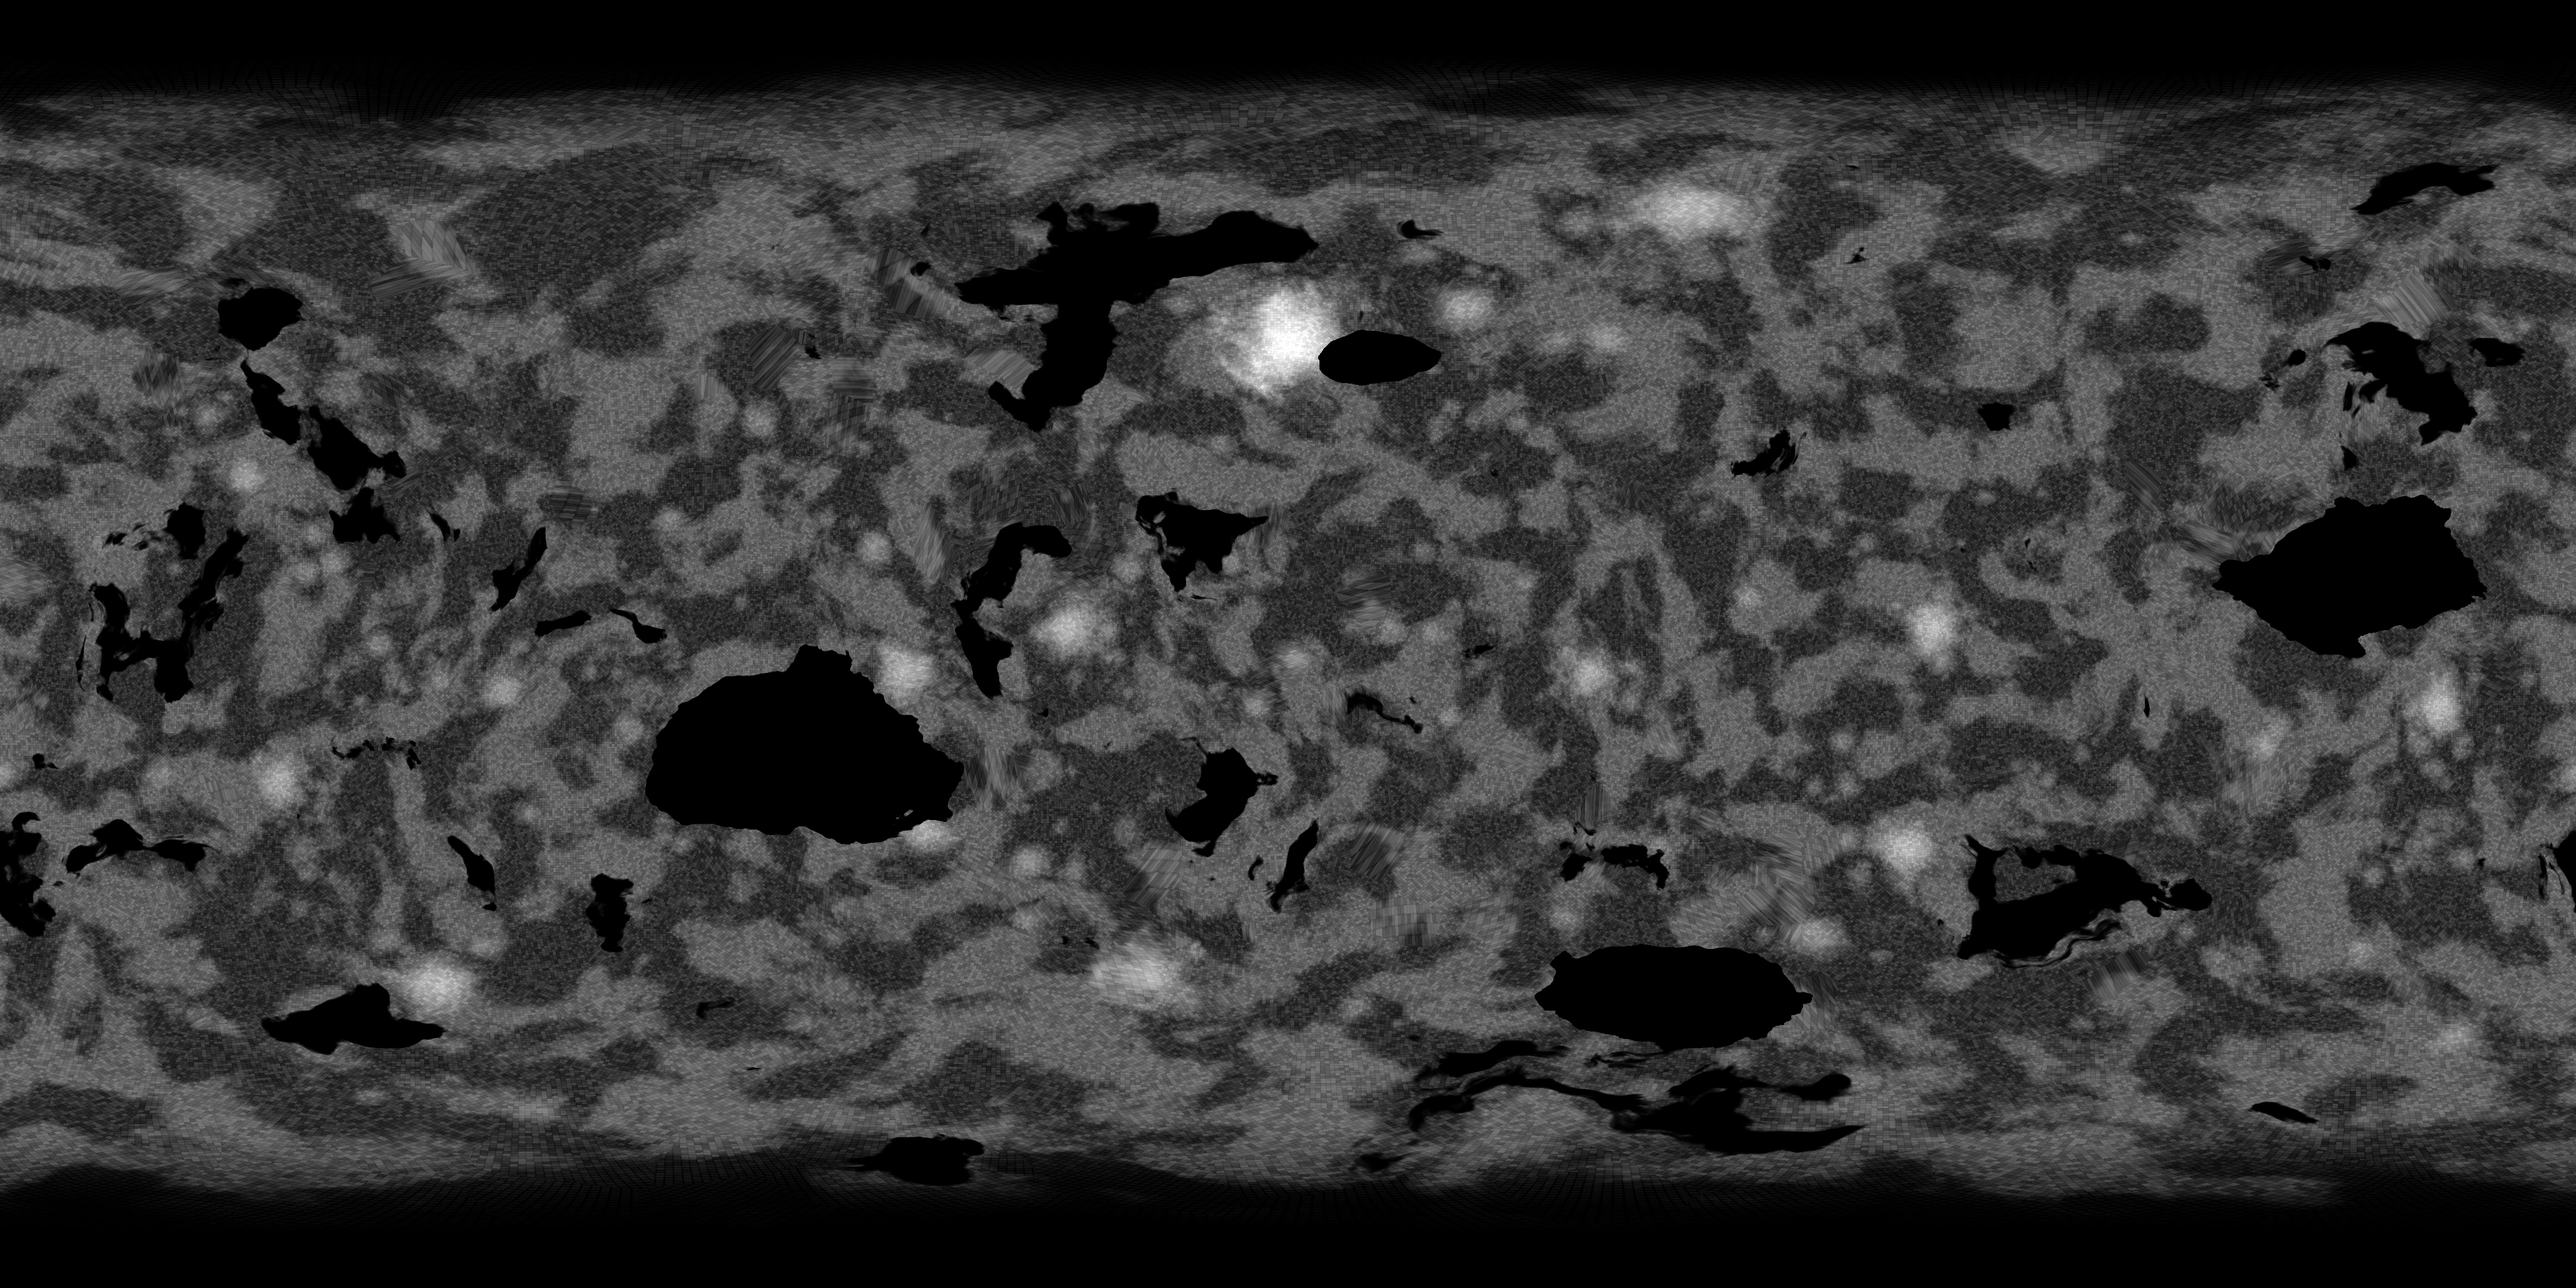
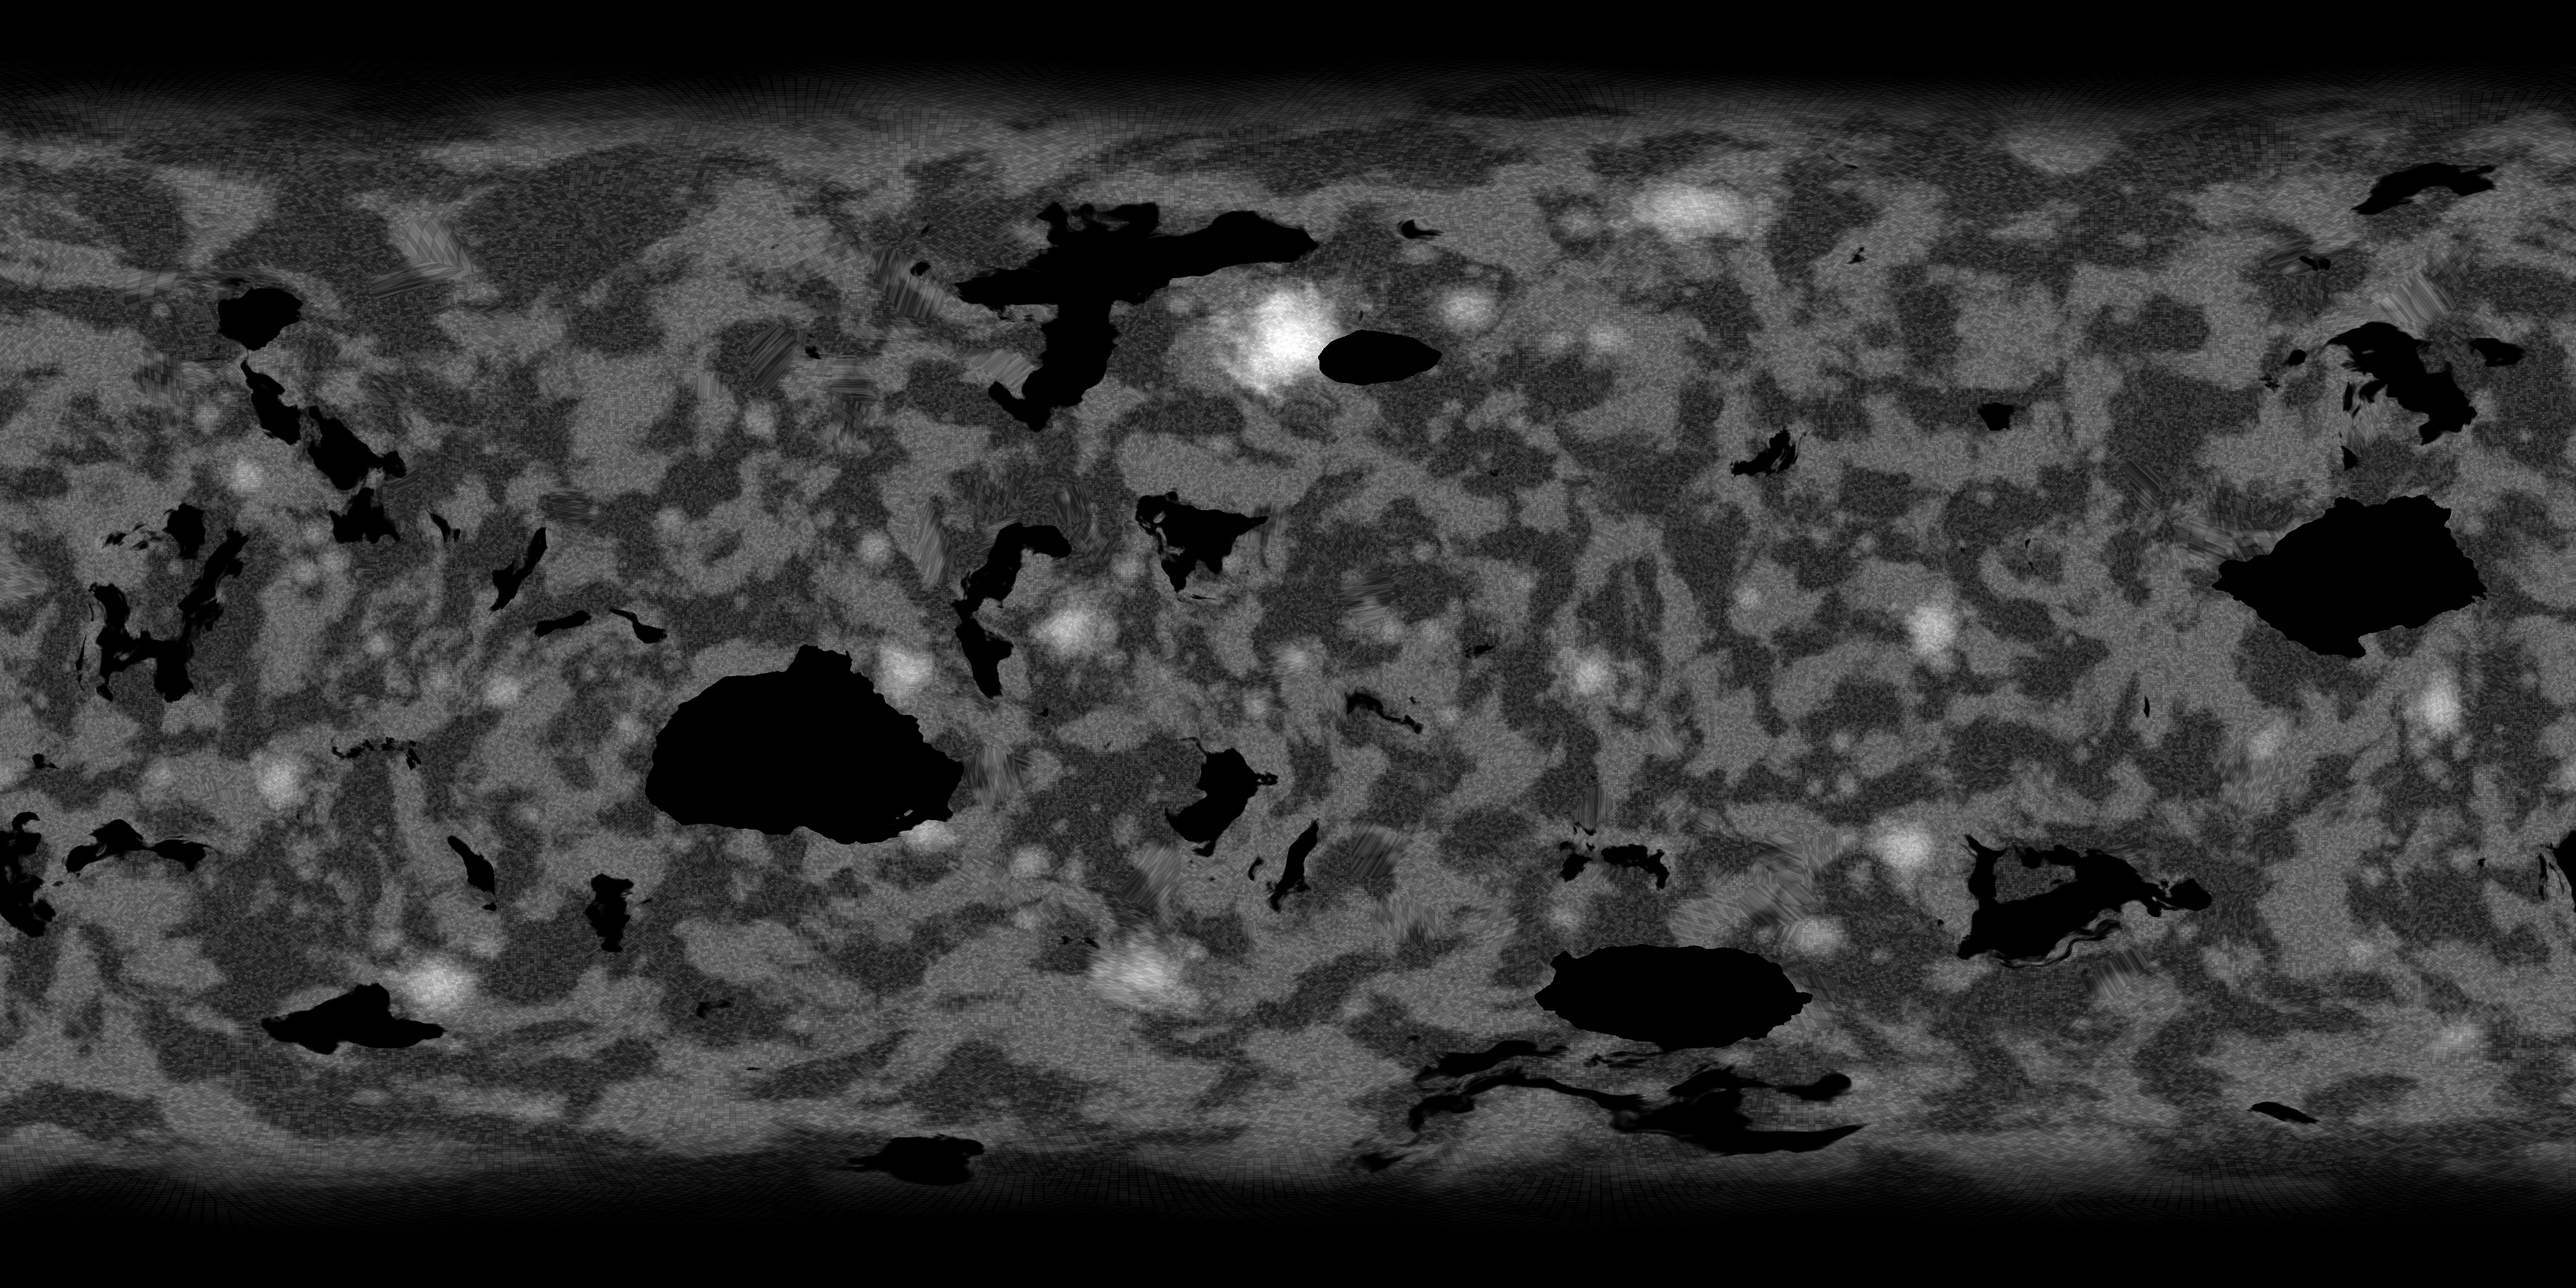
Terran: read as a city planet, not farmland
Rooftop speckle instead of flat district tints, greenbelts instead of park squares,
silvery glassy cores, ring roads and radial highways around big hubs, trunk lines between
the biggest, and night lights across nearly all land as glitter.

Claude-Session: https://claude.ai/code/session_01K8R5kqduobr76DoBg9xGr3

Changed region(s): [[0.0, 0.0625, 1.0, 0.9375], [0.2188, 0.0625, 0.25, 0.0938]]

diff --git a/web/src/lib/system/bodies.ts b/web/src/lib/system/bodies.ts
@@ -115,7 +115,7 @@ export const FELUCIA: BodyLook = {
 export const TERRAN: BodyLook = {
 	name: 'Terran',
 	radius: 1.4,
-	glow: 4,
+	glow: 3,
 	clouds: { color: [0.9, 0.92, 0.94], opacity: 0.85, drift: 0.003, normal: true },
 	atmosphere: { color: [0.5, 0.68, 0.95], strength: 0.85 }
 };

diff --git a/tools/planets/terran.py b/tools/planets/terran.py
@@ -153,9 +153,28 @@ def generate(width: int, out: Path) -> None:
     density = np.zeros_like(h)
     # Hubs sprawl unevenly along their coasts and corridors, not in circles.
     ragged = fbm(n[4], p * 14 + warp * 2, 4)
-    for la, lo, r, b in hubs:
-        d = angular_distance(g, la, lo) * (1 + 0.9 * ragged)
+    # Big hubs get wheels: ring roads (beltways) and radial highways, like DC's or Moscow's,
+    # at city-planet scale and a little out of round.
+    wheels = np.zeros_like(h)
+    for i, (la, lo, r, b) in enumerate(hubs):
+        d0 = angular_distance(g, la, lo)
+        d = d0 * (1 + 0.9 * ragged)
         density = np.maximum(density, b * np.exp(-((d / r) ** 2)))
+        if i == 0 or r < 1.8:
+            continue
+        c = unit(la, lo)
+        e = np.cross([0, 0, 1.0], c)
+        e /= np.linalg.norm(e)
+        nn = np.cross(c, e)
+        near = d0 < r * 1.6
+        dw = d0[near] * (1 + 0.06 * ragged[near])
+        ang = np.arctan2(p[near] @ nn, p[near] @ e)
+        w = 0.16
+        ring = np.maximum(smoothstep(w, 0, np.abs(dw - 0.4 * r)), smoothstep(w, 0, np.abs(dw - 0.85 * r)) * (r > 2.6))
+        k = int(rng.integers(5, 9))
+        phase = rng.uniform(0, np.pi)
+        spoke = smoothstep(w, 0, dw * np.abs(np.sin((ang - phase) * k / 2))) * smoothstep(0.1 * r, 0.25 * r, dw) * smoothstep(1.5 * r, 1.0 * r, dw)
+        wheels[near] = np.maximum(wheels[near], b * np.maximum(ring, spoke))
     # The urban sprawl between hubs is everywhere, thinning toward the poles.
     # It is patchy: dense suburbs, industry, and darker tracts between.
     base = 0.2 + 0.35 * smoothstep(0.2, 0.85, rank(fbm(n[5], p * 7 + warp * 1.5, 5)))
@@ -198,7 +217,6 @@ def generate(width: int, out: Path) -> None:
         return ((x ^ (x >> 16)) & 0xFFFF).astype(np.float32) / 0xFFFF
 
     block = hashf(sx, sy, (cid * 1000).astype(np.int64))
-    super_block = hashf(bx, by, (cid * 1000).astype(np.int64) + 7)
 
     # Champion City: rings of boulevards and radial avenues, the Senate and the Arena.
     cd = angular_distance(g, *CHAMPION)
@@ -224,12 +242,27 @@ def generate(width: int, out: Path) -> None:
         for j in np.argsort(-dots)[1:3]:
             if i < j or i not in np.argsort(-(xyz @ xyz[j]))[1:3]:
                 segs.append(((hubs[i][0], hubs[i][1]), (hubs[j][0], hubs[j][1]), 1.0))
-    arteries = near_arcs(g, segs, 0.22)
+    arteries = 0.5 * near_arcs(g, segs, 0.22)
+    # Trunk lines: the biggest hubs joined to each other across continents, brighter and wider.
+    top = sorted(range(len(hubs)), key=lambda i: -hubs[i][2])[:32]
+    txyz = xyz[top]
+    trunks = []
+    for a_ in range(len(top)):
+        for b_ in np.argsort(-(txyz @ txyz[a_]))[1:3]:
+            if a_ < b_:
+                i, j = top[a_], top[b_]
+                trunks.append(((hubs[i][0], hubs[i][1]), (hubs[j][0], hubs[j][1]), 1.0))
+    arteries = np.maximum(arteries, near_arcs(g, trunks, 0.32))
     print(f"arteries {time.time() - t0:.1f}s: {len(segs)} lines, max {float(arteries.max()):.2f}, cover {float((arteries > 0.1).mean()):.4f}")
 
-    # Parks: the initiative's squares at a regular spacing in each district's grid, a ring of
-    # parks around the capital, and the lakefront strip.
-    parks = (hashf(bx, by, (cid * 1000).astype(np.int64) + 3) > 0.975).astype(np.float32)
+    # Parks: greenbelts kept along old river valleys and irregular preserved parkland, shaped
+    # like nature rather than plots; rectangular planned parks only in the dense cores; a ring
+    # of parks around the capital, and the lakefront strip.
+    belts = smoothstep(0.035, 0.012, np.abs(fbm(n[6], p * 5 + warp * 1.2, 4)))
+    belts = belts * smoothstep(0.35, 0.6, rank(fbm(n[7], p * 3 + 4.4, 3)))
+    wild = smoothstep(0.93, 0.97, rank(fbm(n[2], p * 9 + warp * 2, 5)))
+    planned = (hashf(bx, by, (cid * 1000).astype(np.int64) + 3) > 0.97) * smoothstep(0.35, 0.6, hubd)
+    parks = np.maximum(np.maximum(belts, wild), planned).astype(np.float32)
     ring_d = np.abs(cd - 9)
     parks = np.maximum(parks, smoothstep(1.2, 0.6, ring_d) * (np.sin(ang * 4) > 0.2))
     shore = smoothstep(0.02, 0.0, np.abs(h - sea_level) - 0.004) * smoothstep(14, 4, cd)
@@ -237,20 +270,23 @@ def generate(width: int, out: Path) -> None:
     testbed = smoothstep(1.1, 0.9, ellipse(g, TESTBED["lat"], TESTBED["lon"], TESTBED["ax"], TESTBED["ay"]))
     ice = smoothstep(78, 86, alat + 3 * fbm(n[7], p * 8, 3))
 
-    # Day: grey-tan urban fabric, a little warmer or cooler district by district; dark streets;
-    # pale avenues; green parks; the testbed a patchwork of desert, forest, ice and steppe.
-    tone = ramp(rank(cid), [(0, (0.4, 0.41, 0.43)), (0.5, (0.47, 0.46, 0.44)), (1, (0.43, 0.45, 0.49))])
-    city = tone * (0.82 + 0.3 * block[..., None]) * (0.9 + 0.15 * super_block[..., None])
-    city = city * (1 - 0.25 * streets[..., None] * smoothstep(0.3, 0.9, density)[..., None])
-    city = city * (1 - 0.15 * avenues[..., None]) + 0.12 * avenues[..., None] * smoothstep(0.3, 1.0, density)[..., None]
-    city = city * (1 - 0.3 * monuments[..., None]) + 0.6 * monuments[..., None]
-    # Thinner sprawl lets old ground show through: scrub and rock.
-    ground = ramp(rank(fbm(n[2], p * 8 + warp, 4)), [(0, (0.4, 0.41, 0.4)), (1, (0.48, 0.48, 0.46))])
-    built = smoothstep(0.04, 0.2, density)[..., None]
+    # Day: no flat tints (even-toned patches read as farm fields); instead the fine bright and
+    # dark speckle of rooftops and shadows, silvery in the cores, darker grey in the sprawl.
+    core = smoothstep(0.25, 1.0, hubd)
+    grain = rank(fbm(n[3], p * 380, 2))
+    v = (0.33 + 0.17 * core) * (0.8 + 0.28 * block) * (0.88 + 0.24 * grain)
+    v = v * (1 - 0.3 * streets * smoothstep(0.2, 0.7, density)) * (1 - 0.1 * avenues)
+    v = v * (1 - 0.35 * np.maximum(wheels, arteries))  # highways are dark bands by day
+    city = v[..., None] * np.array([0.98, 1.0, 1.04], np.float32)
+    city = city * (1 - 0.3 * monuments[..., None]) + 0.7 * monuments[..., None]
+    # Only near the poles does the city thin out to bare tundra.
+    ground = ramp(rank(fbm(n[2], p * 8 + warp, 4)), [(0, (0.44, 0.45, 0.44)), (1, (0.55, 0.56, 0.55))])
+    built = polar_thin[..., None]
     land = ground * (1 - built) + city * built
-    park = np.array([0.2, 0.3, 0.16], np.float32) * (0.85 + 0.3 * block[..., None])
+    park = np.array([0.17, 0.27, 0.13], np.float32) * (0.8 + 0.4 * block[..., None]) * (0.85 + 0.3 * grain[..., None])
     land = land * (1 - parks[..., None]) + park * parks[..., None]
-    patches = ramp(super_block, [(0, (0.62, 0.52, 0.36)), (0.3, (0.14, 0.32, 0.12)), (0.55, (0.82, 0.85, 0.86)), (0.8, (0.42, 0.44, 0.24)), (1, (0.3, 0.22, 0.16))])
+    patch_id = hashf(bx, by, (cid * 1000).astype(np.int64) + 7)
+    patches = ramp(patch_id, [(0, (0.62, 0.52, 0.36)), (0.3, (0.14, 0.32, 0.12)), (0.55, (0.82, 0.85, 0.86)), (0.8, (0.42, 0.44, 0.24)), (1, (0.3, 0.22, 0.16))])
     land = land * (1 - testbed[..., None]) + patches * testbed[..., None]
     land = land * (1 - ice[..., None]) + np.array([0.8, 0.83, 0.86], np.float32) * ice[..., None]
 
@@ -264,10 +300,14 @@ def generate(width: int, out: Path) -> None:
     # Night: lights wherever people are, strongest in the hubs, traced along streets and avenues,
     # with the arteries as bright threads between cities.
     # The sprawl glows faintly everywhere; the hubs blaze.
-    lit = (0.3 * density + 1.1 * hubd**1.3) * (0.35 + 0.65 * block) * (0.55 + 0.45 * np.maximum(streets, avenues * smoothstep(0.1, 0.6, hubd)))
+    # Nearly everywhere is lit like an Earth city; the hubs blaze like megacity cores.
+    # Glitter, not a wash: each block lit brightly or dimly, so the sprawl sparkles with dark
+    # gaps between lit blocks (as real cities do from orbit), while hub cores fill in solid.
+    sparkle = block**2.5 + 0.12
+    lit = (1.6 * density * sparkle + 1.0 * hubd**1.3 * (0.6 + 0.4 * block)) * (0.75 + 0.25 * np.maximum(streets, avenues * smoothstep(0.1, 0.6, hubd)))
     # Transit lines: faint broken strings of light, brighter where they pass through towns.
-    strings = arteries * (0.3 + 0.7 * smoothstep(0.4, 0.8, rank(fbm(n[7], p * 120, 2)))) * (0.15 + 0.35 * density)
-    lit = lit + 0.35 * avenues * hubd**1.5 + strings + 0.8 * rings * smoothstep(9, 0, cd) + 1.2 * monuments
+    strings = 0.7 * arteries * (0.5 + 0.5 * smoothstep(0.4, 0.8, rank(fbm(n[7], p * 120, 2))))
+    lit = lit + 0.35 * avenues * hubd**1.5 + strings + 0.6 * wheels + 0.8 * rings * smoothstep(9, 0, cd) + 1.2 * monuments
     lit = lit * (1 - water) * (1 - parks * 0.85) * (1 - testbed) * (1 - ice)
     # Coastal promenades light the shore.
     lit = lit + 0.3 * smoothstep(0.004, 0.0, np.abs(h - sea_level)) * smoothstep(0.2, 0.5, density)
@@ -276,7 +316,8 @@ def generate(width: int, out: Path) -> None:
     # Lit windows tint the city a touch by day as well.
     print(f"lights {time.time() - t0:.1f}s")
 
-    rough = np.where(water > 0.5, 0.35, 0.7 - 0.2 * block * (density > 0.6))
+    # Glass and steel in the cores catch the sun.
+    rough = np.where(water > 0.5, 0.35, 0.75 - 0.5 * core * (0.5 + 0.5 * block))
     height = (0.6 * density + 0.15 * block * built[..., 0] - 0.05 * streets) * (1 - water)
     out.mkdir(parents=True, exist_ok=True)
     save_rgb(out / "albedo.webp", rgb)

diff --git a/.ideas/projects/solar-system-3d/README.md b/.ideas/projects/solar-system-3d/README.md
@@ -220,6 +220,11 @@ Next: the other planets and moons (see `assets.md`), then the fly-through UI.
 - **Clouds cast shadows** (`emissiveFlicker.ts`): the ground shader traces toward the sun to the
   cloud layer, cast from a little higher than the cloud mesh so the offset shows. Shadows lying
   right under their clouds are hidden; the offset is what makes clouds look lifted.
+- **A city planet** (Terran). Even-toned patches read as farm fields: no flat district or block
+  tints, and parks shaped like nature (greenbelts along old valleys), not squares. City is a
+  fine bright-and-dark speckle, silvery in the cores. Big hubs get ring roads and radial
+  highways; a few trunk lines join the biggest. At night nearly all land is lit, as glitter
+  (lit blocks with dark gaps), not a smooth wash, with hubs brighter.
 - **Clouds thin as the camera closes in** (to `near` × opacity at 2 radii), so places can be
   seen up close while the planet reads as cloudy from afar.
 
